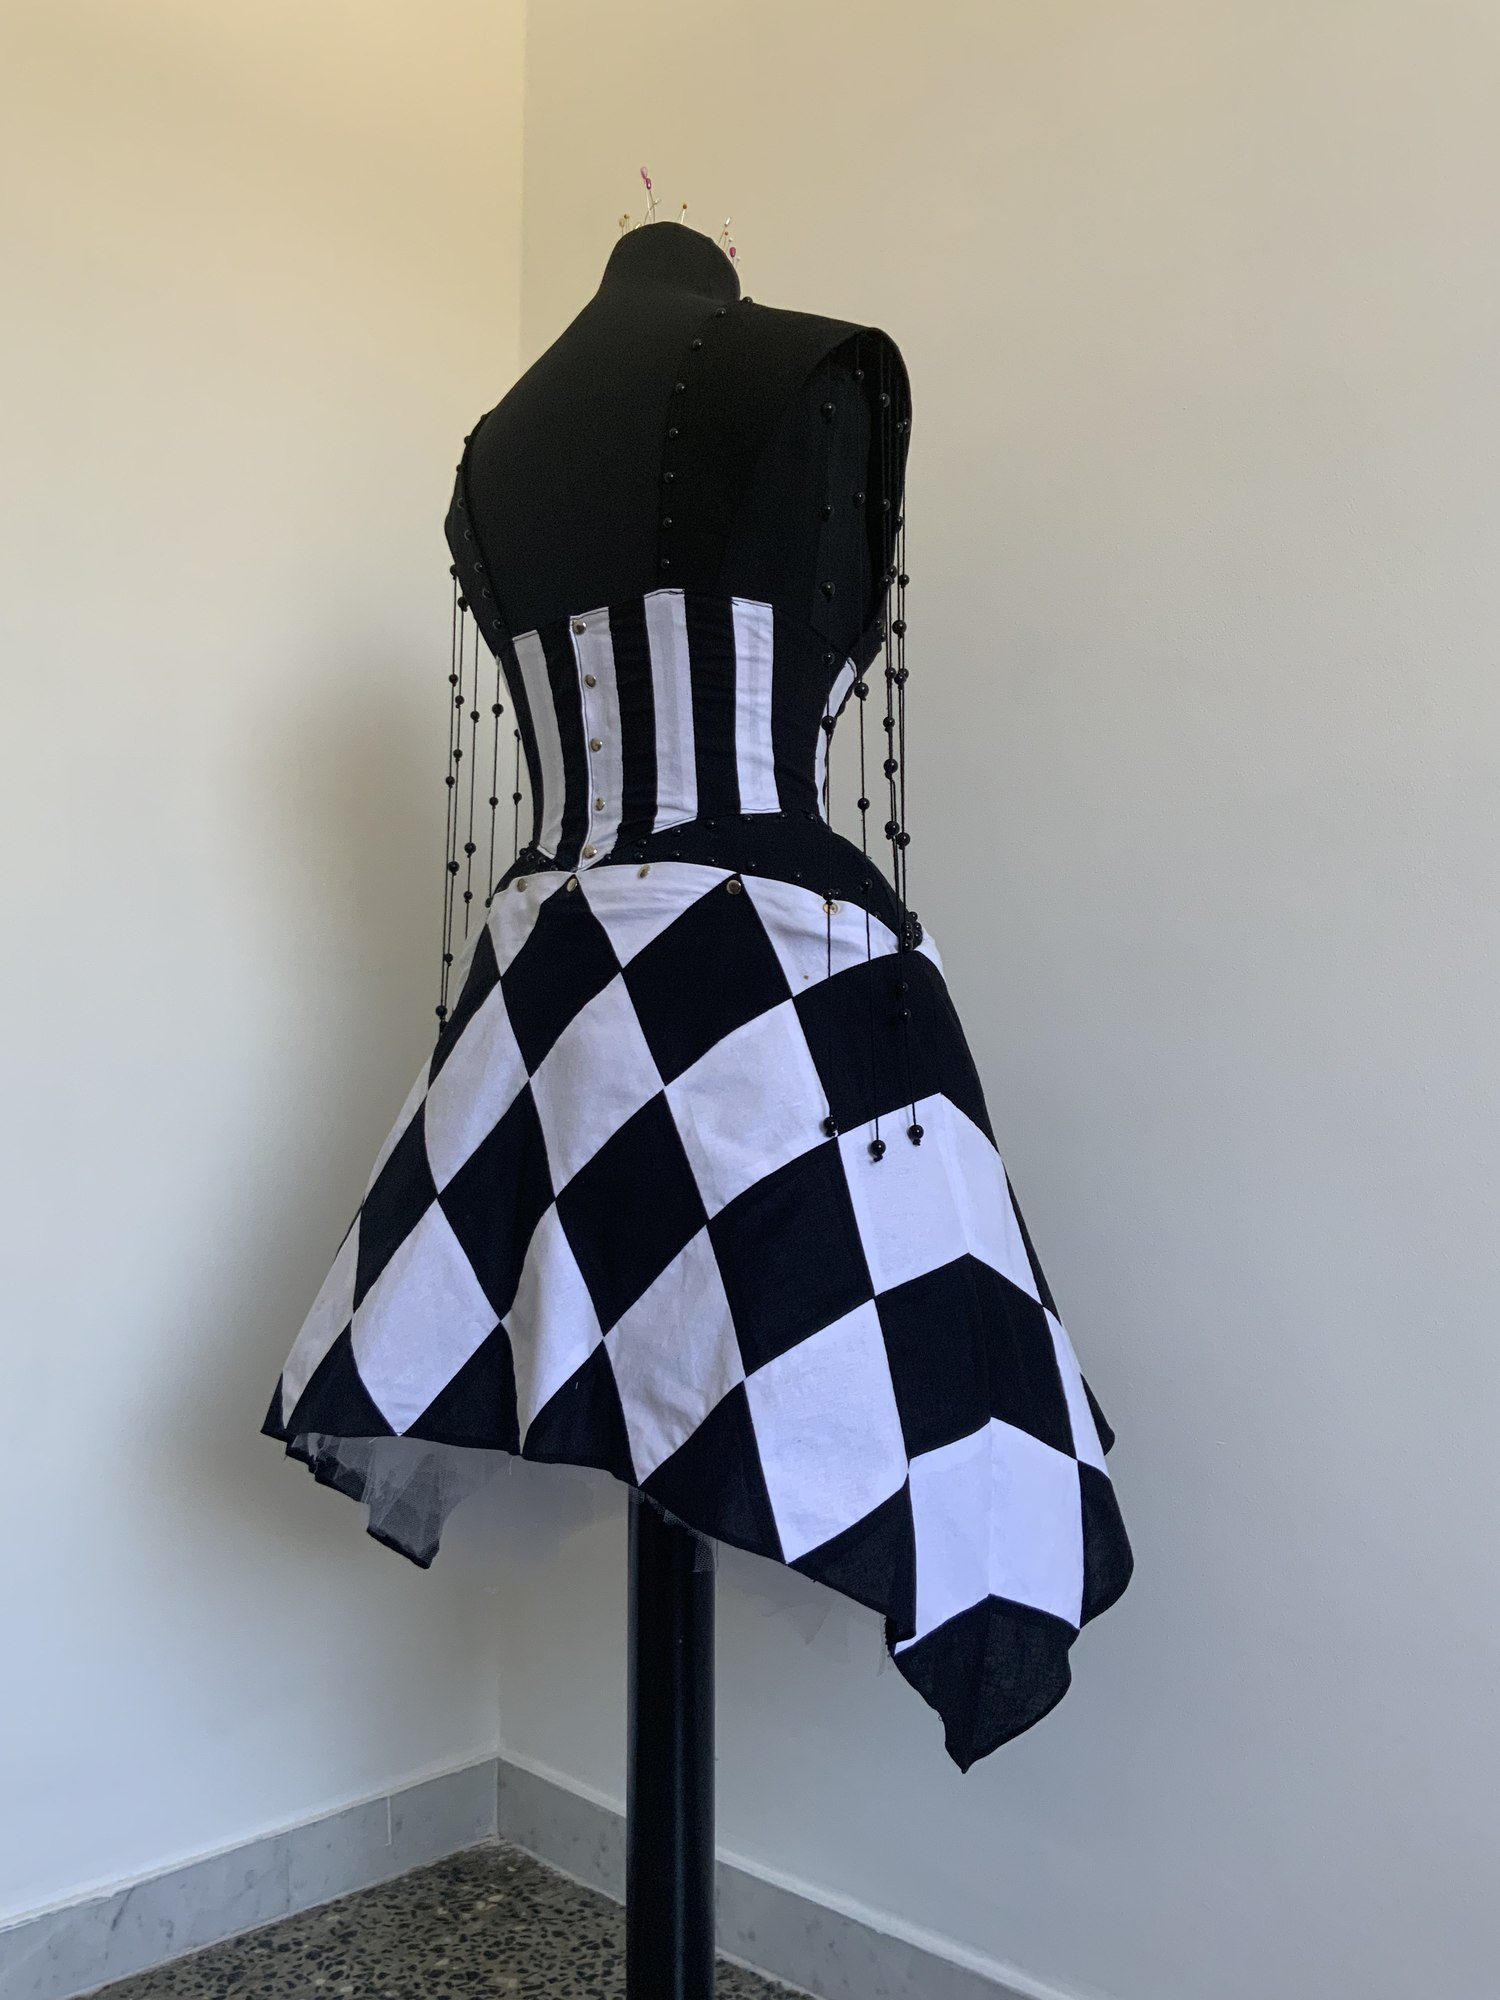
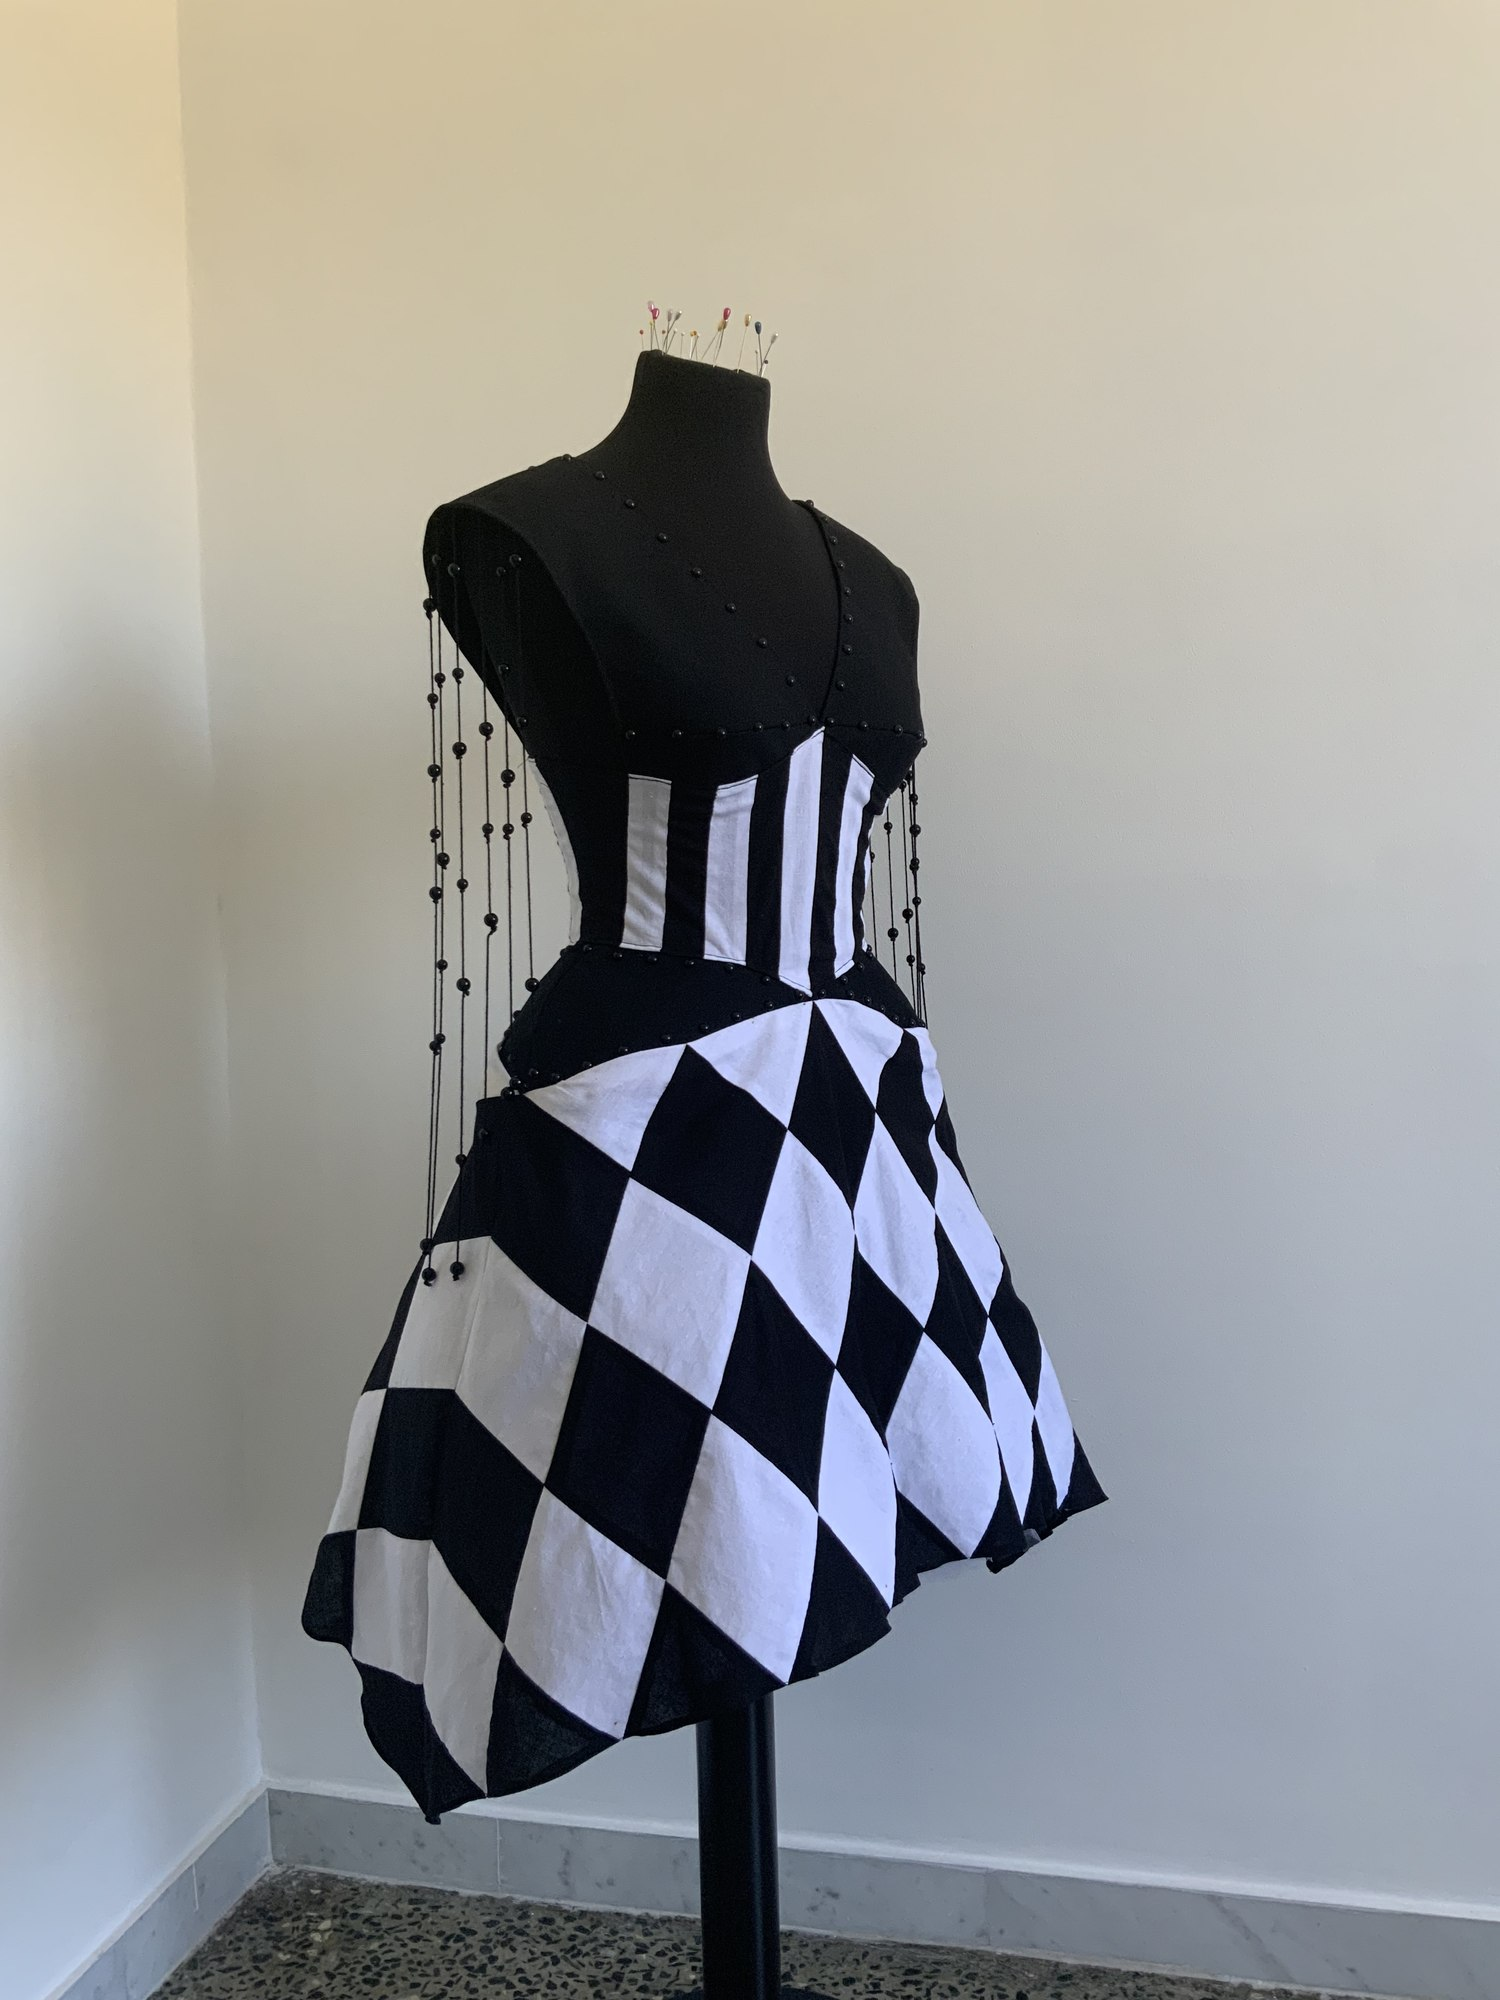
Add Faceted paintings project; lead Pierrette Doll with the finished look
New project "Faceted" (2023-2025, /faceted/): five paintings, opening on
the woman and doberman as a solo, then two diptychs. Takes first place on
the home grid; the other four projects shift down one.

Pierrette Doll: the studio photo of the finished harlequin look becomes
01-solo.jpg, so it now opens the lookbook and the home cover. The sketch
and the fitting shots keep their layout, renumbered 02 to 05.

diff --git a/_projects/faceted.md b/_projects/faceted.md
@@ -1,0 +1,12 @@
+---
+title: Faceted
+year: 2023-2025
+order: 1
+cover: 01-solo.jpg
+og_image: /assets/projects/faceted/01-solo.jpg
+---
+
+<!-- Sostituisci questa riga con il tuo concept statement. -->
+
+Faceted still lifes, interiors and geometric compositions on canvas,
+painted between 2023 and 2025.

diff --git a/_projects/brutal-tenderness.md b/_projects/brutal-tenderness.md
@@ -3,7 +3,7 @@ title: Brutal Tenderness
 event: Shoes Style
 location: Moscow
 year: 2023
-order: 4
+order: 5
 cover: 01-wide.jpg
 cover_position: 60% 50%
 og_image: /assets/projects/brutal-tenderness/01-wide.jpg

diff --git a/_projects/structure.md b/_projects/structure.md
@@ -3,7 +3,7 @@ title: Structure
 event: Krakow Fashion Show
 location: Kraków
 year: 2024
-order: 2
+order: 3
 cover: 01-solo.jpg
 og_image: /assets/projects/structure/01-solo.jpg
 video: runway.mp4

diff --git a/_projects/no-waste-show.md b/_projects/no-waste-show.md
@@ -3,7 +3,7 @@ title: No Waste Show
 event: Krakow Fashion Week
 location: Kraków
 year: 2024
-order: 3
+order: 4
 cover: 02.jpg
 og_image: /assets/projects/no-waste-show/02.jpg
 video: runway.mp4

diff --git a/_projects/pierrette-doll.md b/_projects/pierrette-doll.md
@@ -1,7 +1,7 @@
 ---
 title: Pierrette Doll
 year: 2025
-order: 1
+order: 2
 cover: 01-solo.jpg
 og_image: /assets/projects/pierrette-doll/01-solo.jpg
 videos:
